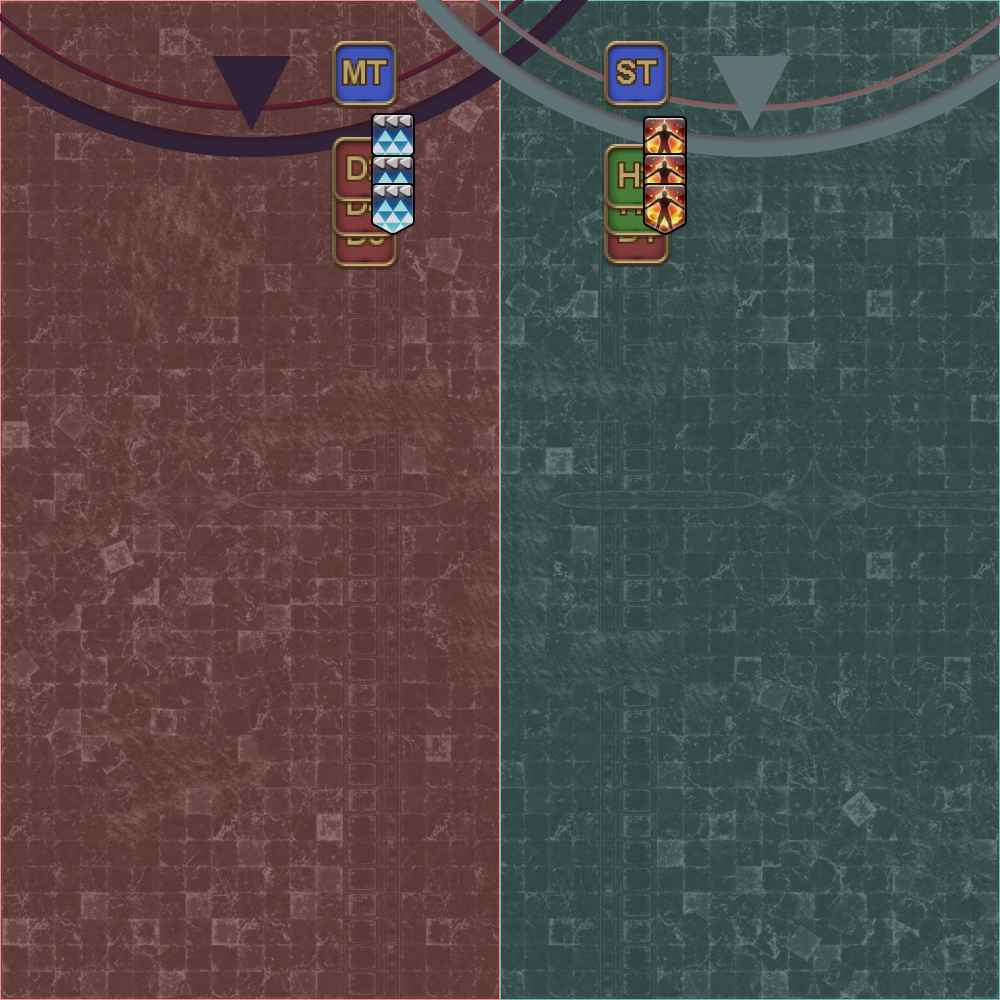
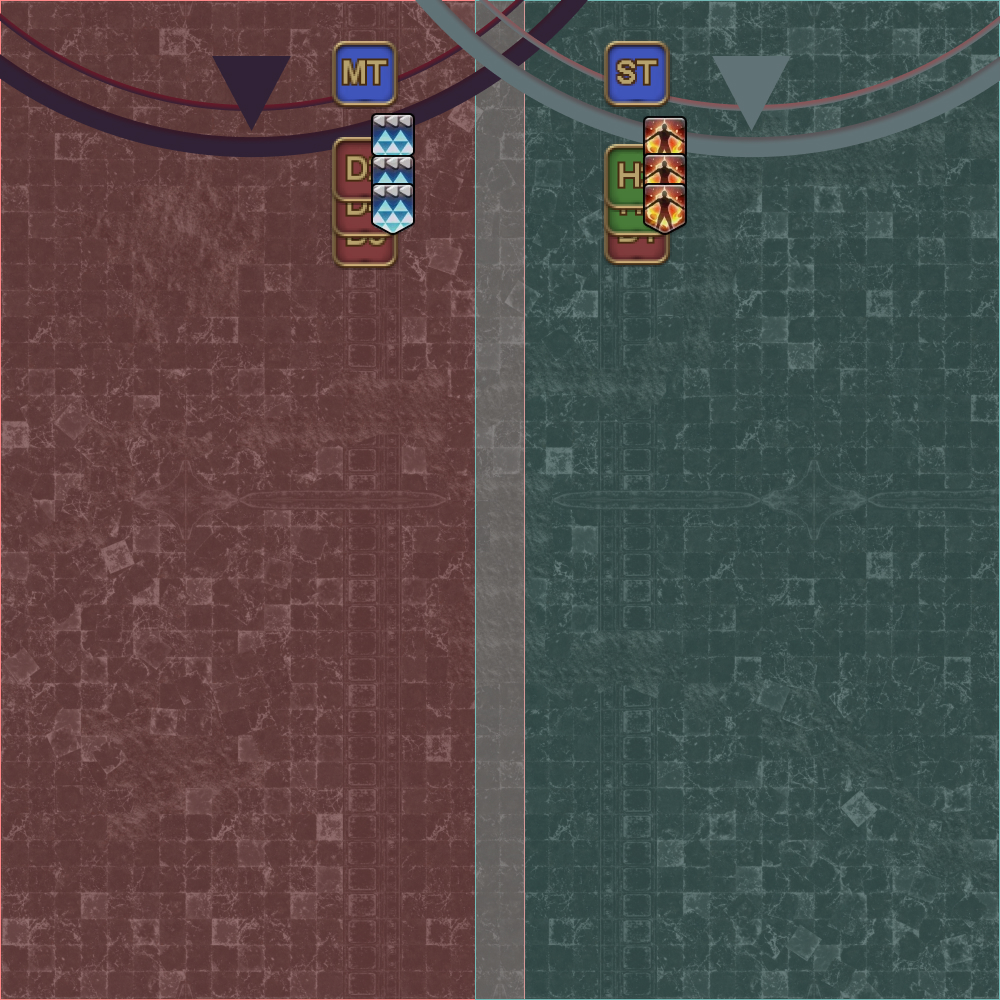
Add detail to Cauterize AoE

Changed region(s): [[0.465, 0.0, 0.527, 1.0]]

diff --git a/ultimates/dsr/06_double_dragons/index.en.md b/ultimates/dsr/06_double_dragons/index.en.md
@@ -675,6 +675,8 @@ we needed the fire/ice debuffs in order to survive this mechanic.
       <p><b>Do not move</b> as Nidhogg's debuff will turn into Pyretic. The
       resulting damage will result in Hraesvelgr's Cauterize killing you and
       cause Hraesvelgr to enrage.</p>
+      <p>Do not stand directly in the center, as there <em>is</em> a slight
+      overlap.</p>
       <div style="background-color: #200 ; padding: 10px; border: 1px solid;">
         <b>Note:</b> If you have a DRK and are using Living Dead here, neither
         dragon will be targetable for the DRK to recover HP.
